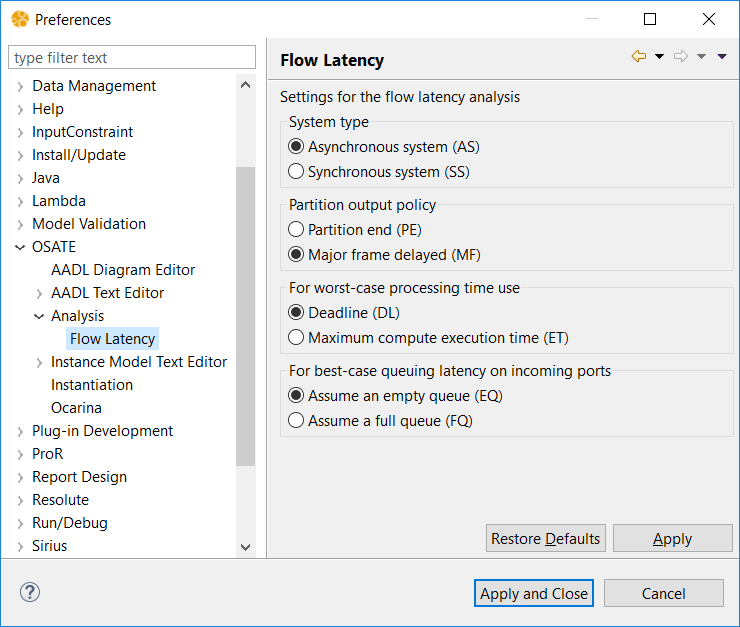
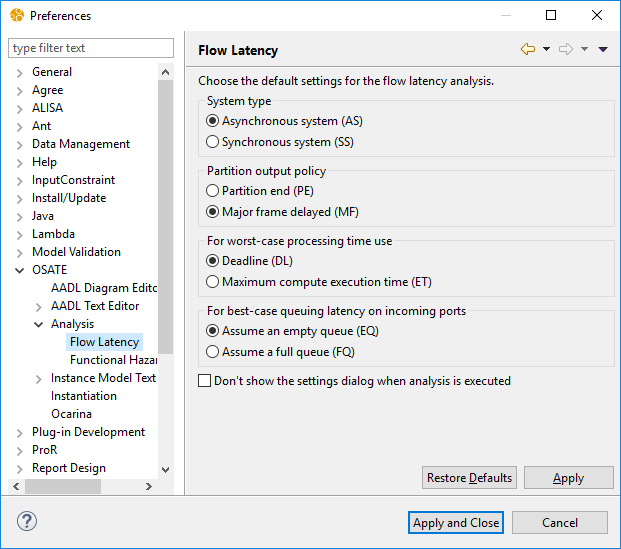
Updated the help docs to describe the settings dialog.

diff --git a/analyses/org.osate.analysis.flows/help/markdown/latency.md b/analyses/org.osate.analysis.flows/help/markdown/latency.md
@@ -49,6 +49,72 @@ flows in the instance model. If the instance model has operational modes the
 analysis is performed for each mode. The latency analysis can be affected by 
 preference settings that allow users 
 
+#### Latency Analysis Preferences
+
+When invoked, the analysis presents a configuration dialog for choosing settings that affect how latency 
+is calculated. This allows users to perform studies along different dimensions without changing the model.
+
+![Configuration Dialog](images/FlowLatencyDialog.png "Flow Latency Configuration Dialog")
+
+The body of the dialog contains four sets of radio buttons that are described below.  Clicking on
+**OK** executes the analysis with the chosen settings.  The settings are remembered the next time the
+analysis is run.  Clicking on **Cancel** discards the settings and does not run the analysis.  If
+**Don't show this dialog again** is selected when **OK** is pressed, the dialog will not be shown 
+on subsequent invocations and the the chosen settings are used for future invocations.  To get the 
+dialog back, see below.
+
+The **Restore Defaults** button returns the settings to the values set in the OSATE preferences (see below).
+The **Save as Defaults** button makes the current settings the defaults values used the OSATE preferences.
+
+The flow latency analysis supports the following settings:
+
+- **System type**. Used to assess the sampling latency between periodic 
+  components that are not inherently synchronous (threads or partitions on the 
+  same processor) or explicitly specified as synchronous by referring to the same 
+  *Reference_Time* property value.  
+    - **Asynchronous system (AS)**: The components are not
+      time synchronized, i.e., dispatches may have time shift.
+    - **Synchronous system (SS)**: The components are time
+      synchronized, i.e., periodic dispatches are aligned
+      across systems.
+- **Partition output policy**. Used to reflect latency contribution by 
+  inter-partition communication due to different inter-communication policies 
+  in partitioned systems.
+    - **Partition end (PE)**: assume that inter-partitions connections
+      are available at the end of the partition whose task sends data.
+      If a task in partition A sends a data to a task in partition B,
+      the later will receive the data in the same major frame if
+      partition B is executed after partition A.
+    - **Major frame delayed (MF)**: assume that
+      inter-partitions connections are flushed/realized at the end of
+      the major frame. If a task in partition A sends a data to a task
+      in partition B, the fresh data will be available only after
+      completion of all remaining partitions, regardless the execution
+      order of partition A or partition B.
+- **For worst-case processing time use**: Users can choose between deadline
+  and worst-case compute execution time as worst case processing time. For best case 
+  we always use compute execution time.
+    - **Deadline (DL)**: Deadline represents the worst-case 
+      completion time assuming the tasks are schedulable.
+    - **Maximum compute execution time (ET)**: Maximum compute execution time 
+      is useful when processing time is considered without resource scheduling. 
+- **For best-case queuing latency on incoming ports**: Affects how the best 
+    case queuing delay is determined. For worst-case we always use full queue.
+    - **Assume empty queue (EQ)**: No delay as the queue
+      is assumed to be empty.
+    - **Assume full queue (FQ)**: Use minimum compute execution time
+      times the queue size to determine the best case queuing time.
+
+The OSATE preference settings controlling the default values for flow latency analysis
+are found in the **OSATE > Analysis > Flow Latency** preference pane.
+
+![preference settings](images/preferencesettings.png "preference settings")
+
+This pane is almost identical to the dialog displayed by the analysis.  Here the 
+setting **Don't show the settings dialog when analysis is executed** can be unchecked
+to return the analysis to showing the dialog every time it is run.
+ 
+
 ### Latency Analysis Result Reports
 
 Once the latency analysis is finished, a report is produced in a folder called 
@@ -204,54 +270,6 @@ on a variety of hardware configurations.
 The multi-tier aircraft example illustrates the evolution of an aircraft system 
 across multiple tiers. The latency analysis highlights how design decisions in 
 the evolving architecture affect end-to-end latency.
-
-## Preference Settings for Latency Analysis
-
-The latency analysis offers several preference settings that affect how latency 
-is calculated. This allows users to perform trade studies along certain 
-dimensions without changing the model. The preference settings can be found 
-under the menu **Window/Preferences** then **OSATE/Analysis/Flow Latency**. 
-
-![preference settings](images/preferencesettings.png "preference settings")
-
-The latency analysis supports the following settings:
-
-- **System type**. Used to assess the sampling latency between periodic 
-  components that are not inherently synchronous (threads or partitions on the 
-  same processor) or explicitly specified as synchronous by referring to the same 
-  *Reference_Time* property value.  
-    - **Asynchronous system (AS) \[default\]**: The components are not
-      time synchronized, i.e., dispatches may have time shift.
-    - **Synchronous system (SS)**: The components are time
-      synchronized, i.e., periodic dispatches are aligned
-      across systems.
-- **Partition output policy**. Used to reflect latency contribution by 
-  inter-partition communication due to different inter-communication policies 
-  in partitioned systems.
-    - **Partition end (PE)**: assume that inter-partitions connections
-      are available at the end of the partition whose task sends data.
-      If a task in partition A sends a data to a task in partition B,
-      the later will receive the data in the same major frame if
-      partition B is executed after partition A.
-    - **Major frame delayed (MF) \[default\]**: assume that
-      inter-partitions connections are flushed/realized at the end of
-      the major frame. If a task in partition A sends a data to a task
-      in partition B, the fresh data will be available only after
-      completion of all remaining partitions, regardless the execution
-      order of partition A or partition B.
-- **For worst-case processing time use**: Users can choose between deadline
-  and worst-case compute execution time as worst case processing time. For best case 
-  we always use compute execution time.
-    - **Deadline (DL) \[default\]**: Deadline represents the worst-case 
-      completion time assuming the tasks are schedulable.
-    - **Maximum compute execution time (ET)**: Maximum compute execution time 
-      is useful when processing time is considered without resource scheduling. 
-- **For best-case queuing latency on incoming ports**: Affects how the best 
-    case queuing delay is determined. For worst-case we always use full queue.
-    - **Assume empty queue (EQ) \[default\]**: No delay as the queue
-      is assumed to be empty.
-    - **Assume full queue (FQ)**: Use minimum compute execution time
-      times the queue size to determine the best case queuing time.
 
 ## Latency Contributors and Relevant Properties
 
